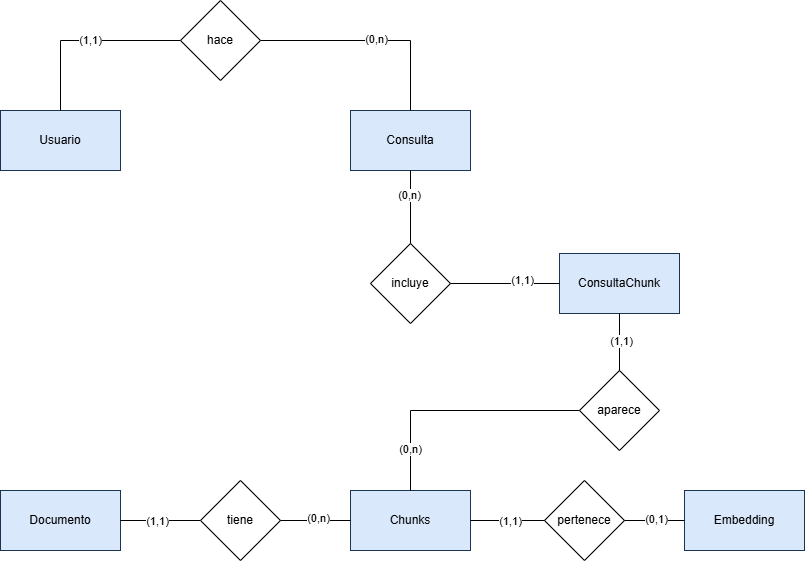
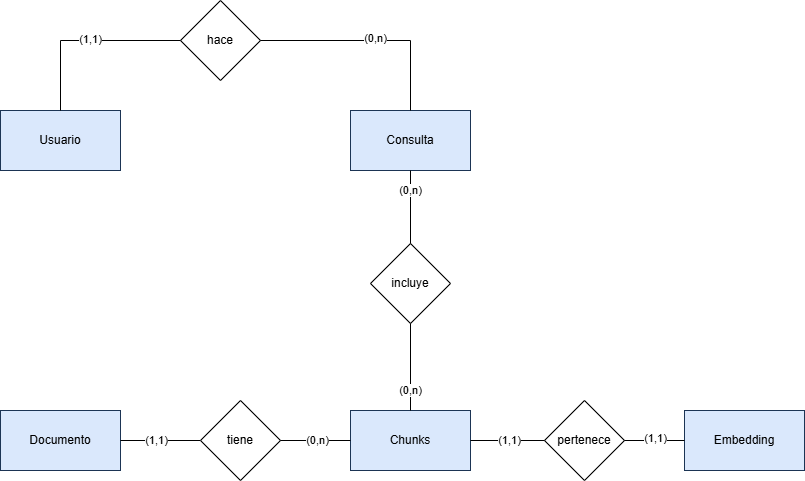
Correcciones de los casos de uso en los anexos

diff --git a/docs/LaTex/tex/B_Requisitos.tex b/docs/LaTex/tex/B_Requisitos.tex
@@ -30,6 +30,7 @@ A continuación se van a definir los requisitos del proyecto, tanto los funciona
 		\item RF-1.1 Inserción de documentos: el sistema debe permitir cargar documentos de licitaciones con el objetivo de construir y actualizar la base de datos vectorial.
 		\item RF-1.2 Listado de documentos cargados: el sistema debe permitir ver los documentos cargados y sus metadatos.
 		\item RF-1.3 Borrado de documentos: el sistema debe permitir borrar los documentos cargados.
+		\item RF-1.4 Descarga de documentos: el sistema debe permitir descargar los documentos cargados.
 	\end{itemize}
 	\item RF-2 Procesado de los documentos: el sistema debe procesar de manera automática los documentos introducidos para prepararlos para que el \textit{RAG} pueda usarlos.
 	\begin{itemize}
@@ -146,21 +147,24 @@ Los casos de uso definidos para el proyecto son:
 	\item CU-4 Realizar consulta al \textit{RAG}
 	\item CU-5 Consultar historial de consultas
 	\item CU-6 Borrar consultas del historial
-	\item CU-7 Cargar documentos de licitaciones
-	\item CU-8 Importar licitaciones automáticamente
-	\item CU-9 Indexar documentos
-	\item CU-10 Listar documentos
-	\item CU-11 Consultar estado de los documentos
-	\item CU-12 Eliminar documento
-	\item CU-13 Gestión de usuario
-	\item CU-14 Crear usuarios
-	\item CU-15 Borrar usuarios
-	\item CU-16 Modificar rol del usuario
-	\item CU-17 Editar usuario
+	\item CU-7 Gestión de documentos
+	\item CU-8 Cargar documentos de licitaciones
+	\item CU-9 Importar licitaciones automáticamente
+	\item CU-10 Convertir los documentos a \textit{Markdown}
+	\item CU-11 Indexar documento
+	\item CU-12 Listar documentos
+	\item CU-13 Consultar estado del documento
+	\item CU-14 Eliminar documento
+	\item CU-15 Descargar documento
+	\item CU-16 Gestión de usuario
+	\item CU-17 Crear usuario
+	\item CU-18 Borrar usuario
+	\item CU-19 Modificar rol del usuario
+	\item CU-20 Editar usuario
 \end{itemize}
 El diagrama de los casos de uso se muestra en la imagen ~\ref{fig:Diagramas/CasosUso}.
 
-\imagendiagram{Diagramas/CasosUso}{Diagrama de casos de uso.}{1.2}
+\imagendiagram{Diagramas/CasosUso}{Diagrama general de casos de uso.}{1.2}
 
 
 \begin{table}[p]
@@ -291,7 +295,6 @@ El diagrama de los casos de uso se muestra en la imagen ~\ref{fig:Diagramas/Caso
 			\item El sistema busca por similitud en la base de datos vectorial.
 			\item El sistema construye un \textit{prompt} con los \textit{chunks} y las reglas de uso del contexto.
 			\item El sistema llama al \textit{LLM} y genera respuestas.
-			\item El sistema llama al \textit{LLM} y genera una respuesta.
 			\item El sistema adjunta la trazabilidad de la respuesta, la cual incluye los documentos, metadatos y \textit{chunks} utilizados.
 			\item El sistema guarda la consulta en el historial del consultas del usuario.
 		\end{enumerate}\\
@@ -380,7 +383,41 @@ El diagrama de los casos de uso se muestra en la imagen ~\ref{fig:Diagramas/Caso
 	\centering
 	\begin{tabularx}{\linewidth}{ p{0.21\columnwidth} p{0.71\columnwidth} }
 		\toprule
-		\textbf{CU-7}    & \textbf{Cargar documentos de licitaciones}\\
+		\textbf{CU-7}    & \textbf{ Gestión de documentos}\\
+		\toprule
+		\textbf{Versión}              & 1.0    \\
+		\textbf{Autor}                & Lydia Blanco Ruiz \\
+		\textbf{Requisitos asociados} & RF-1, RF-1.1, RF-1.2, RF-1.3, RF-2, RF-2.1, RF-2.2, RF-2.2.1, RF-2.3, RF-2.3.1, RF-2.3.2, RF-3, RF-4, RF-5, RF-5.1, RF-5.2, RF-5.3, RF-5.4, RF-5.5, RNF-3.1 \\
+		\textbf{Descripción}          & El administrador debe poder gestionar a los documentos de la aplicación. \\
+		\textbf{Precondición}         & Hay un administrador autentificado. \\
+		\textbf{Acciones}             &
+		\begin{enumerate}
+			\def\labelenumi{\arabic{enumi}.}
+			\tightlist
+			\item El administrador accede a la página de <<Iniciar sesión>>.
+			\item El administrador introduce su \textit{email} y contraseña.
+			\item El sistema le autentifica como administrador.
+			\item El administrador accede a <<Administrar documentos>>.
+		\end{enumerate}\\
+		\textbf{Postcondición}        & Posibilidad de cargar documentos nuevos (de forma manual o por \textit{web scraping}), indexar, borrar o descargar los documentos ya cargados . \\
+		\textbf{Excepciones}          & 
+		\begin{enumerate}
+			\def\labelenumi{\arabic{enumi}.}
+			\tightlist
+			\item Intento de acceso sin ser administrador. Se deniega.
+			\item Si no hay documentos cargados en la aplicación. Muestra un mensaje.
+		\end{enumerate}\\
+		\textbf{Importancia}          & Alta  \\
+		\bottomrule
+	\end{tabularx}
+	\caption{CU-7 Gestión de documentos.}
+\end{table}
+
+\begin{table}[p]
+	\centering
+	\begin{tabularx}{\linewidth}{ p{0.21\columnwidth} p{0.71\columnwidth} }
+		\toprule
+		\textbf{CU-8}    & \textbf{Cargar documentos de licitaciones}\\
 		\toprule
 		\textbf{Versión}              & 1.0    \\
 		\textbf{Autor}                & Lydia Blanco Ruiz \\
@@ -406,14 +443,14 @@ El diagrama de los casos de uso se muestra en la imagen ~\ref{fig:Diagramas/Caso
 		\textbf{Importancia}          & Alta  \\
 		\bottomrule
 	\end{tabularx}
-	\caption{CU-7 Cargar documentos de licitaciones.}
+	\caption{CU-8 Cargar documentos de licitaciones.}
 \end{table}
 
 \begin{table}[p]
 	\centering
 	\begin{tabularx}{\linewidth}{ p{0.21\columnwidth} p{0.71\columnwidth} }
 		\toprule
-		\textbf{CU-8}    & \textbf{Importar licitaciones automáticamente}\\
+		\textbf{CU-9}    & \textbf{Importar licitaciones automáticamente}\\
 		\toprule
 		\textbf{Versión}              & 1.0    \\
 		\textbf{Autor}                & Lydia Blanco Ruiz \\
@@ -442,20 +479,20 @@ El diagrama de los casos de uso se muestra en la imagen ~\ref{fig:Diagramas/Caso
 		\textbf{Importancia}          & Media  \\
 		\bottomrule
 	\end{tabularx}
-	\caption{CU-8 Importar licitaciones automáticamente.}
+	\caption{CU-9 Importar licitaciones automáticamente.}
 \end{table}
 
 \begin{table}[p]
 	\centering
 	\begin{tabularx}{\linewidth}{ p{0.21\columnwidth} p{0.71\columnwidth} }
 		\toprule
-		\textbf{CU-9}    & \textbf{Procesar documentos cargados}\\
+		\textbf{CU-10}    & \textbf{Convertir los documentos a \textit{Markdown}}\\
 		\toprule
 		\textbf{Versión}              & 1.0    \\
 		\textbf{Autor}                & Lydia Blanco Ruiz \\
-		\textbf{Requisitos asociados} & RF-2, RF-2.1, RF-2.2, RF-2.2.1, RF-2.3, RF-2.3.1, RF-2.3.2, RNF-3, RNF-3.1 \\
-		\textbf{Descripción}          & El sistema prepara automáticamente los documentos para que puedan incluirse en el sistema. \\
-		\textbf{Precondición}         & Existen documentos cargados pendientes. \\
+		\textbf{Requisitos asociados} & RF-2, RF-2.1, RF-2.2, RF-2.2.1, RF-2.3, RF-2.3.1, RF-2.3.2 \\
+		\textbf{Descripción}          & El sistema prepara automáticamente los documentos para que puedan ser procesados por el sistema. \\
+		\textbf{Precondición}         & Hay documentos cargados por el administrador. \\
 		\textbf{Acciones}             &
 		\begin{enumerate}
 			\def\labelenumi{\arabic{enumi}.}
@@ -465,7 +502,7 @@ El diagrama de los casos de uso se muestra en la imagen ~\ref{fig:Diagramas/Caso
 			\item Intenta conservar la estructura básica del documento original.
 			\item Limpia caracteres problemáticos y normaliza espacios y saltos de linea.
 		\end{enumerate}\\
-		\textbf{Postcondición}        & Los documentos procesados listos para el \textit{chunking}. \\
+		\textbf{Postcondición}        & Los documentos convertidos a \textit{Markdown} listos para el \textit{chunking}. \\
 		\textbf{Excepciones}          & 
 		\begin{enumerate}
 			\def\labelenumi{\arabic{enumi}.}
@@ -475,24 +512,27 @@ El diagrama de los casos de uso se muestra en la imagen ~\ref{fig:Diagramas/Caso
 		\textbf{Importancia}          & Alta  \\
 		\bottomrule
 	\end{tabularx}
-	\caption{CU-9 Procesar documentos cargados.}
+	\caption{CU-10 Convertir los documentos a \textit{Markdown}.}
 \end{table}
 
 \begin{table}[p]
 	\centering
 	\begin{tabularx}{\linewidth}{ p{0.21\columnwidth} p{0.71\columnwidth} }
 		\toprule
-		\textbf{CU-10}    & \textbf{Indexar documentos}\\
+		\textbf{CU-11}    & \textbf{Indexar documento}\\
 		\toprule
 		\textbf{Versión}              & 1.0    \\
 		\textbf{Autor}                & Lydia Blanco Ruiz \\
 		\textbf{Requisitos asociados} & RF-3, RF-4, RF-5, RF-5.1, RF-5.2, RF-5.3 \\
-		\textbf{Descripción}          & El sistema convierte los documentos procesados en \textit{chunks}, genera los \textit{embeddings} y los guarda en la base de datos vectorial con metadatos. \\
-		\textbf{Precondición}         & Existen documentos procesados y una base de datos vectorial. \\
+		\textbf{Descripción}          & Permite al administrador actualizar la base de datos
+vectorial cuando hay documentos nuevos. El sistema convierte los documentos procesados en \textit{chunks}, genera los \textit{embeddings} y los guarda en la base de datos vectorial con metadatos. \\
+		\textbf{Precondición}         & Existen documentos procesados, una base de datos vectorial y un administrador autentificado. \\
 		\textbf{Acciones}             &
 		\begin{enumerate}
 			\def\labelenumi{\arabic{enumi}.}
 			\tightlist
+			\item El administrador accede a <<Administrar documentos>>.
+			\item El administrador pulsa el botón <<Actualizar Base de Datos Vectorial>>.
 			\item El sistema segmenta los archivos en \textit{chunks}.
 			\item Aplica solapamiento a dichos \textit{chunks}.
 			\item Añade una referencia al documento asi como el segmento que contiene.
@@ -505,44 +545,13 @@ El diagrama de los casos de uso se muestra en la imagen ~\ref{fig:Diagramas/Caso
 			\def\labelenumi{\arabic{enumi}.}
 			\tightlist
 			\item Fallo en conseguir los \textit{embedding} de un \textit{chunk}. Se omite el \textit{chunk} y se continúa.
+			\item Error de conexión con la base de datos vectorial. Se aborta la operación y se avisa al administrador
+a través de un mensaje.
 		\end{enumerate}\\
 		\textbf{Importancia}          & Alta  \\
 		\bottomrule
 	\end{tabularx}
-	\caption{CU-10 Indexar documentos.}
-\end{table}
-
-\begin{table}[p]
-	\centering
-	\begin{tabularx}{\linewidth}{ p{0.21\columnwidth} p{0.71\columnwidth} }
-		\toprule
-		\textbf{CU-11}    & \textbf{Actualizar la base de datos vectorial}\\
-		\toprule
-		\textbf{Versión}              & 1.0    \\
-		\textbf{Autor}                & Lydia Blanco Ruiz \\
-		\textbf{Requisitos asociados} & RF-1, RF-5.4, RF-10.3 \\
-		\textbf{Descripción}          & Permite al administrador actualizar la base de datos vectorial cuando hay documentos nuevos. \\
-		\textbf{Precondición}         & Hay un administrador autentificado y existen documentos nuevos que añadir a la base de datos vectorial. \\
-		\textbf{Acciones}             &
-		\begin{enumerate}
-			\def\labelenumi{\arabic{enumi}.}
-			\tightlist
-			\item El administrador accede a <<Administrar documentos>>.
-			\item El administrador pulsa el botón <<Actualizar Base de Datos Vectorial>>.
-			\item El sistema realiza el \textit{chunking} y el \textit{embedding}.
-			\item El sistema lo almacena en la base de datos vectorial.
-		\end{enumerate}\\
-		\textbf{Postcondición}        & La colección vectorial esta actualizada. \\
-		\textbf{Excepciones}          & 
-		\begin{enumerate}
-			\def\labelenumi{\arabic{enumi}.}
-			\tightlist
-			\item Error de conexión con la base de datos vectorial. Se aborta la operación y se avisa al administrador a través de un mensaje.
-		\end{enumerate}\\
-		\textbf{Importancia}          & Alta  \\
-		\bottomrule
-	\end{tabularx}
-	\caption{CU-11 Actualizar la base de datos vectorial.}
+	\caption{CU-11 Indexar documento.}
 \end{table}
 
 \begin{table}[p]
@@ -581,7 +590,7 @@ El diagrama de los casos de uso se muestra en la imagen ~\ref{fig:Diagramas/Caso
 	\centering
 	\begin{tabularx}{\linewidth}{ p{0.21\columnwidth} p{0.71\columnwidth} }
 		\toprule
-		\textbf{CU-13}    & \textbf{Consultar estado de los documentos}\\
+		\textbf{CU-13}    & \textbf{Consultar estado del documento}\\
 		\toprule
 		\textbf{Versión}              & 1.0    \\
 		\textbf{Autor}                & Lydia Blanco Ruiz \\
@@ -607,7 +616,7 @@ El diagrama de los casos de uso se muestra en la imagen ~\ref{fig:Diagramas/Caso
 		\textbf{Importancia}          & Media  \\
 		\bottomrule
 	\end{tabularx}
-	\caption{CU-13 Consultar estado de los documentos.}
+	\caption{CU-13 Consultar estado del documento.}
 \end{table}
 
 \begin{table}[p]
@@ -648,12 +657,45 @@ El diagrama de los casos de uso se muestra en la imagen ~\ref{fig:Diagramas/Caso
 	\caption{CU-14 Eliminar documento.}
 \end{table}
 
+\begin{table}[p]
+	\centering
+	\begin{tabularx}{\linewidth}{ p{0.21\columnwidth} p{0.71\columnwidth} }
+		\toprule
+		\textbf{CU-15}    & \textbf{Descargar documento}\\
+		\toprule
+		\textbf{Versión}              & 1.0    \\
+		\textbf{Autor}                & Lydia Blanco Ruiz \\
+		\textbf{Requisitos asociados} & RF-1, RF-1.4, RNF-5.2 \\
+		\textbf{Descripción}          & Permite al administrador descargar un documento del sistema. \\
+		\textbf{Precondición}         & Hay un administrador autentificado y existe al menos un documento cargado en el sistema. \\
+		\textbf{Acciones}             &
+		\begin{enumerate}
+			\def\labelenumi{\arabic{enumi}.}
+			\tightlist
+			\item El administrador accede a <<Administrar documentos>>.
+			\item El sistema lista los documentos con sus metadatos (nombre, tamaño, fecha de modificación y \textit{chunks}) y estado.
+			\item El administrador pulsa el botón <<Descargar>>.
+			\item Se descarga el documento.
+		\end{enumerate}\\
+		\textbf{Postcondición}        & Documento descargado en el equipo del administrador. \\
+		\textbf{Excepciones}          & 
+		\begin{enumerate}
+			\def\labelenumi{\arabic{enumi}.}
+			\tightlist
+			\item El documento no existe. Se muestra un aviso 
+			\item Error al descargar. Se informa al administrador.
+		\end{enumerate}\\
+		\textbf{Importancia}          & Media  \\
+		\bottomrule
+	\end{tabularx}
+	\caption{CU-15 Descargar documento.}
+\end{table}
 
 \begin{table}[p]
 	\centering
 	\begin{tabularx}{\linewidth}{ p{0.21\columnwidth} p{0.71\columnwidth} }
 		\toprule
-		\textbf{CU-15}    & \textbf{ Gestión de usuarios}\\
+		\textbf{CU-16}    & \textbf{ Gestión de usuarios}\\
 		\toprule
 		\textbf{Versión}              & 1.0    \\
 		\textbf{Autor}                & Lydia Blanco Ruiz \\
@@ -675,19 +717,19 @@ El diagrama de los casos de uso se muestra en la imagen ~\ref{fig:Diagramas/Caso
 			\def\labelenumi{\arabic{enumi}.}
 			\tightlist
 			\item Intento de acceso sin ser administrador. Se deniega.
-			\item Si no hay usuarios registrados en la aplicación. Muestra un mensaje.
+			\item Si no hay usuarios registrados en la aplicación. Mostrar mensaje de que aún no hay usuarios.
 		\end{enumerate}\\
 		\textbf{Importancia}          & Media  \\
 		\bottomrule
 	\end{tabularx}
-	\caption{CU-15 Gestión de usuarios.}
+	\caption{CU-16 Gestión de usuarios.}
 \end{table}
 
 \begin{table}[p]
 	\centering
 	\begin{tabularx}{\linewidth}{ p{0.21\columnwidth} p{0.71\columnwidth} }
 		\toprule
-		\textbf{CU-16}    & \textbf{ Crear usuarios}\\
+		\textbf{CU-17}    & \textbf{ Crear usuario}\\
 		\toprule
 		\textbf{Versión}              & 1.0    \\
 		\textbf{Autor}                & Lydia Blanco Ruiz \\
@@ -720,14 +762,14 @@ El diagrama de los casos de uso se muestra en la imagen ~\ref{fig:Diagramas/Caso
 		\textbf{Importancia}          & Media  \\
 		\bottomrule
 	\end{tabularx}
-	\caption{CU-16 Crear usuario.}
+	\caption{CU-17 Crear usuario.}
 \end{table}
 
 \begin{table}[p]
 	\centering
 	\begin{tabularx}{\linewidth}{ p{0.21\columnwidth} p{0.71\columnwidth} }
 		\toprule
-		\textbf{CU-17}    & \textbf{ Borrar usuarios}\\
+		\textbf{CU-18}    & \textbf{ Borrar usuario}\\
 		\toprule
 		\textbf{Versión}              & 1.0    \\
 		\textbf{Autor}                & Lydia Blanco Ruiz \\
@@ -754,14 +796,14 @@ El diagrama de los casos de uso se muestra en la imagen ~\ref{fig:Diagramas/Caso
 		\textbf{Importancia}          & Media  \\
 		\bottomrule
 	\end{tabularx}
-	\caption{CU-17 Borrar usuarios.}
+	\caption{CU-18 Borrar usuario.}
 \end{table}
 
 \begin{table}[p]
 	\centering
 	\begin{tabularx}{\linewidth}{ p{0.21\columnwidth} p{0.71\columnwidth} }
 		\toprule
-		\textbf{CU-18}    & \textbf{ Modificar rol del usuarios}\\
+		\textbf{CU-19}    & \textbf{ Modificar rol del usuario}\\
 		\toprule
 		\textbf{Versión}              & 1.0    \\
 		\textbf{Autor}                & Lydia Blanco Ruiz \\
@@ -786,14 +828,14 @@ El diagrama de los casos de uso se muestra en la imagen ~\ref{fig:Diagramas/Caso
 		\textbf{Importancia}          & Baja  \\
 		\bottomrule
 	\end{tabularx}
-	\caption{CU-18 Modificar rol del usuarios.}
+	\caption{CU-19 Modificar rol del usuario.}
 \end{table}
 
 \begin{table}[p]
 	\centering
 	\begin{tabularx}{\linewidth}{ p{0.21\columnwidth} p{0.71\columnwidth} }
 		\toprule
-		\textbf{CU-19}    & \textbf{ Editar usuario}\\
+		\textbf{CU-20}    & \textbf{ Editar usuario}\\
 		\toprule
 		\textbf{Versión}              & 1.0    \\
 		\textbf{Autor}                & Lydia Blanco Ruiz \\
@@ -822,7 +864,7 @@ El diagrama de los casos de uso se muestra en la imagen ~\ref{fig:Diagramas/Caso
 		\textbf{Importancia}          & Baja  \\
 		\bottomrule
 	\end{tabularx}
-	\caption{CU-19 Editar usuario.}
+	\caption{CU-20 Editar usuario.}
 \end{table}
 
 